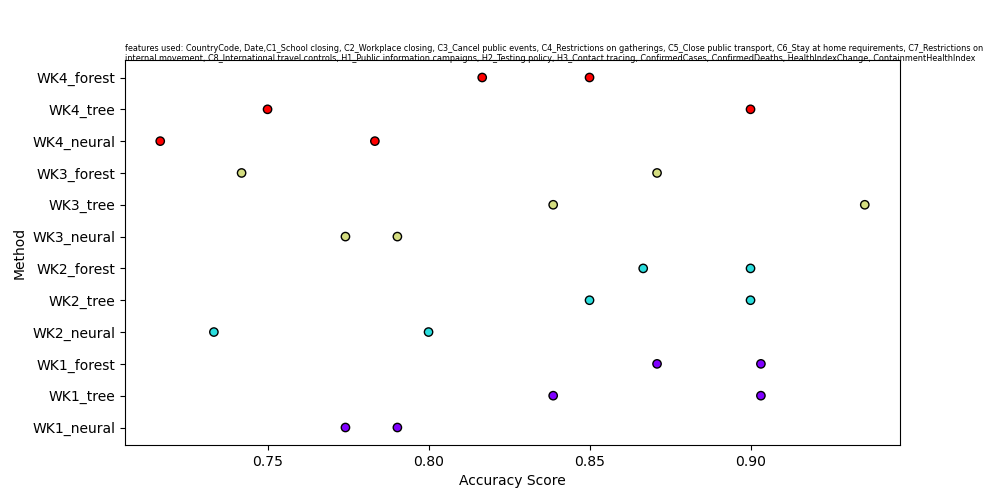
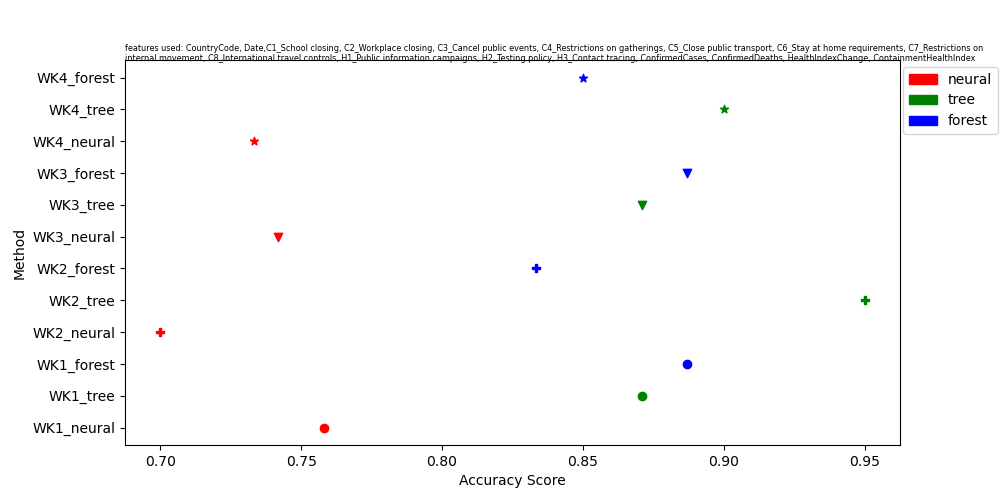
saved outputs for presentation seperatly

diff --git a/src/test_at_best.py b/src/test_at_best.py
@@ -1,6 +1,7 @@
 from os import path
 
 import matplotlib.pyplot as plt
+import matplotlib.patches as mpatches
 
 from src.decision_tree import get_accuracy as tree_accuracy
 from src.neural_network import get_accuracy as neural_accuracy
@@ -8,15 +9,17 @@ from src.random_forest import get_accuracy as forest_accuracy
 from utils.get_dataset import get_datasets
 
 project_path = path.abspath(path.dirname(__file__))
-
+avail_markers=['o','P','v','*']
 
 def main():
     datasets = get_datasets()
 
-    accuracies = []
-    labels = []
-    colours = []
     for dataset in datasets:
+        accuracies = []
+        method_labels = []
+        labels = []
+        colours = []
+        markers = []
         for i, dataset_configuration in enumerate(dataset):
             X = dataset_configuration["X"]
             y = dataset_configuration["y"]
@@ -26,26 +29,40 @@ def main():
             forest_acc = forest_accuracy(X, 0.3, y, "gini")
 
             accuracies.append(neural_acc)
-            labels.append(f"{dataset_configuration['tag']}_neural")
-            colours.append(i)
+            method_labels.append(f"{dataset_configuration['tag']}_neural")
+            labels.append("neural")
+            markers.append(avail_markers[i])
+            colours.append("r")
 
             accuracies.append(tree_acc)
-            labels.append(f"{dataset_configuration['tag']}_tree")
-            colours.append(i)
+            method_labels.append(f"{dataset_configuration['tag']}_tree")
+            labels.append("tree")
+            markers.append(avail_markers[i])
+            colours.append("g")
 
             accuracies.append(forest_acc)
-            labels.append(f"{dataset_configuration['tag']}_forest")
-            colours.append(i)
+            method_labels.append(f"{dataset_configuration['tag']}_forest")
+            labels.append("forest")
+            markers.append(avail_markers[i])
+            colours.append("b")
 
         features_string_commas = ', '.join(dataset_configuration['feature_names'])
         features_string_dash = "-".join([x.split("_")[0] for x in dataset_configuration['feature_names']])
 
         # plt.figure()
         fig, ax = plt.subplots(figsize=(10, 5))
-        plt.scatter(accuracies, labels, c=colours, cmap='rainbow', alpha=1, edgecolors='k')
+        for i, a in enumerate(accuracies):
+            ax.scatter(accuracies[i], method_labels[i],label=labels[i], c=colours[i], alpha=1, edgecolors=None, marker=markers[i])
         plt.xlabel("Accuracy Score")
         plt.ylabel("Method")
+        # ax.legend()
         # plt.xticks(rotation=90)
+
+        N = mpatches.Patch(color='r', label='neural')
+        T = mpatches.Patch(color='g', label='tree')
+        F = mpatches.Patch(color='b', label='forest')
+        ax.legend(handles=[N,T,F],bbox_to_anchor=(1.135, 1))
+
         plt.text(0, 1, f"features used: {features_string_commas}", wrap=True, transform=ax.transAxes,
                  fontsize='xx-small')
         output_path = path.join(project_path, "..", "outputs",
